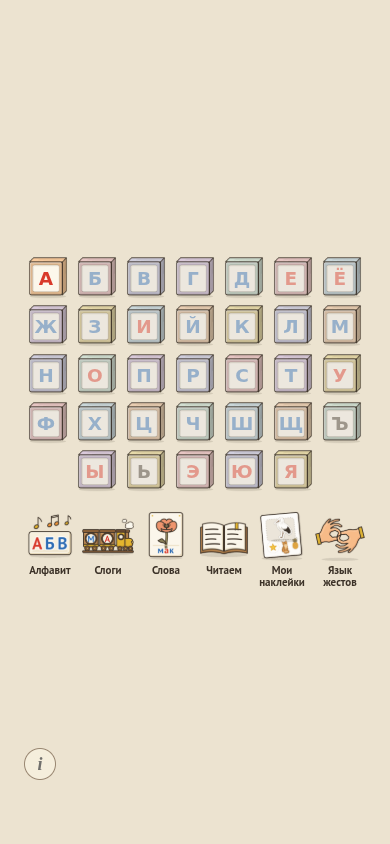
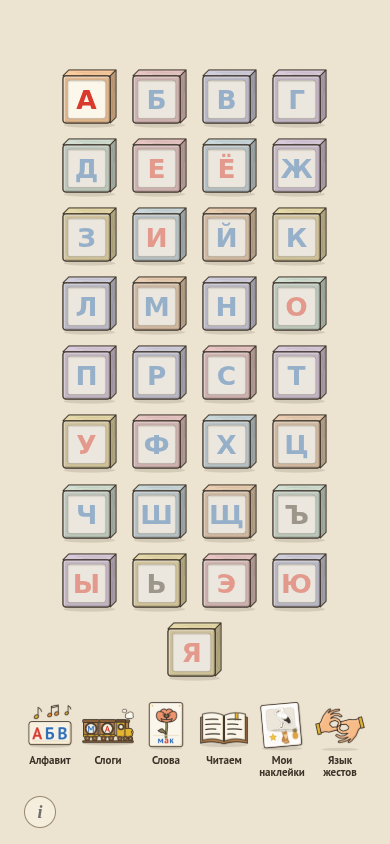
Главная: снова адаптивная сетка букв (9×4 / 7×5 / 5×7), ряд разделов B сохранён

diff --git a/web-home/index.html b/web-home/index.html
@@ -23,7 +23,7 @@ body { position: fixed; inset: 0; touch-action: manipulation; -webkit-user-selec
 #vp { position: fixed; left: 0; top: 0; width: 100%; height: 100%; height: 100dvh; visibility: hidden; pointer-events: none;
   padding: env(safe-area-inset-top, 0px) env(safe-area-inset-right, 0px) env(safe-area-inset-bottom, 0px) env(safe-area-inset-left, 0px);
   box-sizing: border-box; }
-/* экран (макет home_sections/mock_v3, вариант B): сверху сетка букв 7×5, под ней ряд из 6 значков-разделов с подписями,
+/* экран (макет home_sections/mock_v3, вариант B): сверху сетка букв (7×5; на широких 9×4 / 11×3, на узких 5×7 / 4×9), под ней ряд из 6 значков-разделов с подписями,
    «i» — слева внизу. Размеры задаёт layout() в JS. */
 #topbar { position: absolute; left: 0; right: 0; top: 0; }
 .cube { position: absolute; width: 124px; height: 124px; padding: 0; margin: 0; border: 0; outline: none; cursor: pointer;
@@ -214,10 +214,10 @@ body { position: fixed; inset: 0; touch-action: manipulation; -webkit-user-selec
     if (e.persisted) { state = "wait_letter"; cubeA.classList.remove("go", "press"); stage.classList.remove("leaving"); info.classList.remove("open"); publish(); }
   });
 
-  // раскладка в пикселях окна по макету layout_v3: s — масштаб «сцены» 1024×768. Сетка букв — всегда 7×5 (последний ряд из 5
-  // по центру), под ней ряд из 6 разделов — всегда в одну строку, кнопки масштабируются по ширине экрана. Сетка и ряд —
+  // раскладка в пикселях окна по макету layout_v3: s — масштаб «сцены» 1024×768. Сетка букв — 7×5 (4:3), на широких
+  // 9×4 / 11×3, на узких 5×7 / 4×9 — та, что даёт самый крупный кубик (неполный последний ряд — по центру), под ней ряд из 6 разделов — всегда в одну строку, кнопки масштабируются по ширине экрана. Сетка и ряд —
   // по центру по X; на высоких экранах (телефон вертикально) блок «сетка + ряд» — по центру по высоте, «i» — под ним слева.
-  var s = 1, cube = 124, gx = 0, gy = 0, cols = 7, ax0 = 0, ay0 = 0, capPx = CAP;
+  var s = 1, cube = 124, cube7 = 124, gx = 0, gy = 0, cols = 7, ax0 = 0, ay0 = 0, capPx = CAP;
   function gridFit(n, aw, ah) {
     var rows = Math.ceil(ALPHABET.length / n);
     return Math.min(aw / ((n - 1) * SX + 1), ah / ((rows - 1) * SY + 1));
@@ -307,7 +307,13 @@ body { position: fixed; inset: 0; touch-action: manipulation; -webkit-user-selec
     var top = Math.round(Math.max(8, TOP_PAD * s)), padB = Math.round(Math.max(EDGE_B, BOT_PAD * s)), rgap = Math.round(Math.max(12, ROW_GAP * s));
     var side = Math.max(EDGE_X, sideB, Math.round(SIDE * s));
     var areaH = ah - top - padB - rowH - rgap, areaW = aw - 2 * side;
-    cols = 7; cube = Math.max(20, Math.floor(Math.min(gridFit(7, areaW, areaH), 124 * s * 1.35)));
+    // выбор сетки (как до ряда B): 7×5 остаётся, если другая сетка не даёт кубик крупнее хотя бы на 12 %; на широких /
+    // горизонтальных — 9×4 или 11×3, на узких / вертикальных — 5×7 или 4×9. Высота ряда разделов уже вычтена из areaH.
+    var c7 = gridFit(7, areaW, areaH), best = 7, bestC = c7;
+    (aw >= ah ? [9, 11] : [5, 4]).forEach(function (n) { var c = gridFit(n, areaW, areaH); if (c > bestC) { best = n; bestC = c; } });
+    if (bestC < c7 * 1.12) { best = 7; bestC = c7; }
+    var capC = 124 * s * 1.35;
+    cols = best; cube = Math.max(20, Math.floor(Math.min(bestC, capC))); cube7 = Math.max(20, Math.floor(Math.min(c7, capC)));
     var rows = Math.ceil(ALPHABET.length / cols), stx = cube * SX, sty = cube * SY;
     var gw = (cols - 1) * stx + cube, gh = (rows - 1) * sty + cube;
     // блок «сетка + ряд» по центру по высоте (на планшете он и так занимает всю высоту)
@@ -360,7 +366,7 @@ body { position: fixed; inset: 0; touch-action: manipulation; -webkit-user-selec
     t.info_btn = center(infoBtn);
     if (state === "info") t.info_close = center(infoClose);
     window.__home = { step: "home", state: state, targets: t, lesson_href: lessonHref,
-      scale: s, cube: cube, cols: cols, button: btns[0].offsetWidth, viewport: vpInfo,
+      scale: s, cube: cube, cube7: cube7, cols: cols, button: btns[0].offsetWidth, viewport: vpInfo,
       info_rect: rect(infoBtn), cube_rects: cubes.map(rect), button_rects: btns.map(rect), caption_rects: caps.map(rect), caption_font: capPx,
       sections: btns.map(function (b) { return b.dataset.section; }),
       info_text_len: infoText.textContent.length, info_scroll: [infoScroll.scrollHeight, infoScroll.clientHeight] };

diff --git a/godot-proto/README.md b/godot-proto/README.md
@@ -33,7 +33,7 @@ PORT=28790 node tests/smoke.mjs     # THROTTLE=1 — сеть ~10 Мбит/с, R
 
 **Сайт = HTML-главная + урок в `lesson-a/`** (собирает `.github/workflows/pages.yml`):
 
-- `/` — **главная с алфавитом**: папка `../web-home/` (обычные HTML/CSS/JS, ~45 КБ, Godot не грузится). Кубики — как на экране букв Godot (`menu/letters_menu.gd`): 33 кубика, палитра «мягкая радуга», шрифт DejaVu Sans Bold (подмножество А–Я, woff2), закрытые буквы приглушены и качаются от тапа; руки-подсказки на главной нет. В левом нижнем углу — маленькая «i» (кремовый круг, тонкий коричневый контур; место выбирает `placeInfo()` — слева от ряда кнопок, под рядом (телефон вертикально) или в пустой клетке последнего ряда, никогда не на кубиках) → HTML-страница «Как устроен Букварь» поверх главной (без Godot), тёмно-серый крестик / Esc / «назад» → буквы. Текст — общий для всех уроков, правится в одном файле `../web-home/info.html`. Экран — по макету `home_sections/mock_v3` (layout_v3, вариант B; раскладка в `layout()`): сверху сетка букв — всегда 7×5 (последний ряд из 5 по центру; на 1024×768 кубик 100 px с y=28); под ней ряд из 6 значков-разделов без подложек и табличек (`.rb`, `data-slot=1…6`, `data-section`: Алфавит, Слоги, Слова, Читаем, Мои наклейки, Язык жестов) с подписями под значками (PT Sans Bold, #3C3228, по центру). Все 6 — всегда в одну строку и масштабируются по ширине экрана: на 1024×768 кнопка 108, шаг 122, подпись 15 px; на 390×844 кнопка 52, шаг 58, подпись 11 px, «Мои / наклейки» и «Язык / жестов» в 2 строки. Сетка и ряд — по центру по X, на высоких экранах блок — по центру по высоте. Разделы пока только сжимаются при нажатии. Значки — `web-home/assets/home_N_key.png` (216×216, 256 цветов, ~37 КБ на все 6), пересобираются `python3 web-home/tools/make_home_icons.py <папка home_sections>`. Всё в любом окне без прокрутки. Ассеты главной пересобираются из финальной графики проекта: `python3 web-home/tools/make_assets.py` (из корня репозитория; Pillow, fonttools, brotli) — там же обновляется `core/app_icon.png`.
+- `/` — **главная с алфавитом**: папка `../web-home/` (обычные HTML/CSS/JS, ~45 КБ, Godot не грузится). Кубики — как на экране букв Godot (`menu/letters_menu.gd`): 33 кубика, палитра «мягкая радуга», шрифт DejaVu Sans Bold (подмножество А–Я, woff2), закрытые буквы приглушены и качаются от тапа; руки-подсказки на главной нет. В левом нижнем углу — маленькая «i» (кремовый круг, тонкий коричневый контур; место выбирает `placeInfo()` — слева от ряда кнопок, под рядом (телефон вертикально) или в пустой клетке последнего ряда, никогда не на кубиках) → HTML-страница «Как устроен Букварь» поверх главной (без Godot), тёмно-серый крестик / Esc / «назад» → буквы. Текст — общий для всех уроков, правится в одном файле `../web-home/info.html`. Экран — по макету `home_sections/mock_v3` (layout_v3, вариант B; раскладка в `layout()`): сверху сетка букв — на 4:3 всегда 7×5 (на 1024×768 кубик 100 px с y=28), на широких/горизонтальных 9×4 или 11×3, на узких/вертикальных 5×7 или 4×9, если кубик выходит крупнее на ≥12 % (высота ряда разделов учтена; неполный последний ряд — по центру); под ней ряд из 6 значков-разделов без подложек и табличек (`.rb`, `data-slot=1…6`, `data-section`: Алфавит, Слоги, Слова, Читаем, Мои наклейки, Язык жестов) с подписями под значками (PT Sans Bold, #3C3228, по центру). Все 6 — всегда в одну строку и масштабируются по ширине экрана: на 1024×768 кнопка 108, шаг 122, подпись 15 px; на 390×844 кнопка 52, шаг 58, подпись 11 px, «Мои / наклейки» и «Язык / жестов» в 2 строки. Сетка и ряд — по центру по X, на высоких экранах блок — по центру по высоте. Разделы пока только сжимаются при нажатии. Значки — `web-home/assets/home_N_key.png` (216×216, 256 цветов, ~37 КБ на все 6), пересобираются `python3 web-home/tools/make_home_icons.py <папка home_sections>`. Всё в любом окне без прокрутки. Ассеты главной пересобираются из финальной графики проекта: `python3 web-home/tools/make_assets.py` (из корня репозитория; Pillow, fonttools, brotli) — там же обновляется `core/app_icon.png`.
 - Тап «А» → сразу отклик (кубик «нажимается» и пульсирует) → переход на `lesson-a/` с параметрами `debug`, `junior` (младший режим спит: без кнопки, только этим параметром), `hint_sec` (и `test`, `fast`, `audio` для тестов).
 - `lesson-a/` — Godot. Без `?step` урок начинается **сразу со сцены `s01`** (экран для взрослого `s00` убран 26.10.2026; файл `steps/s00_parent_note.gd` остался в репозитории, но в `lesson.json` его нет) → `s01`…`s10`. Звук на iOS: если на странице урока ещё не было касания, s01 ждёт его (Аля пульсирует, состояние `wait_unlock`, `intro.unlock_tap`); в тестах этот шаг пропускается, `?gate=1` — включить.
 - Крестик `ui_exit` справа вверху на `s01–s10` и «домой» в `s10` → назад на главную (`../`), параметры адреса сохраняются, кроме `step` (`main.go_home()`, через JavaScriptBridge).
